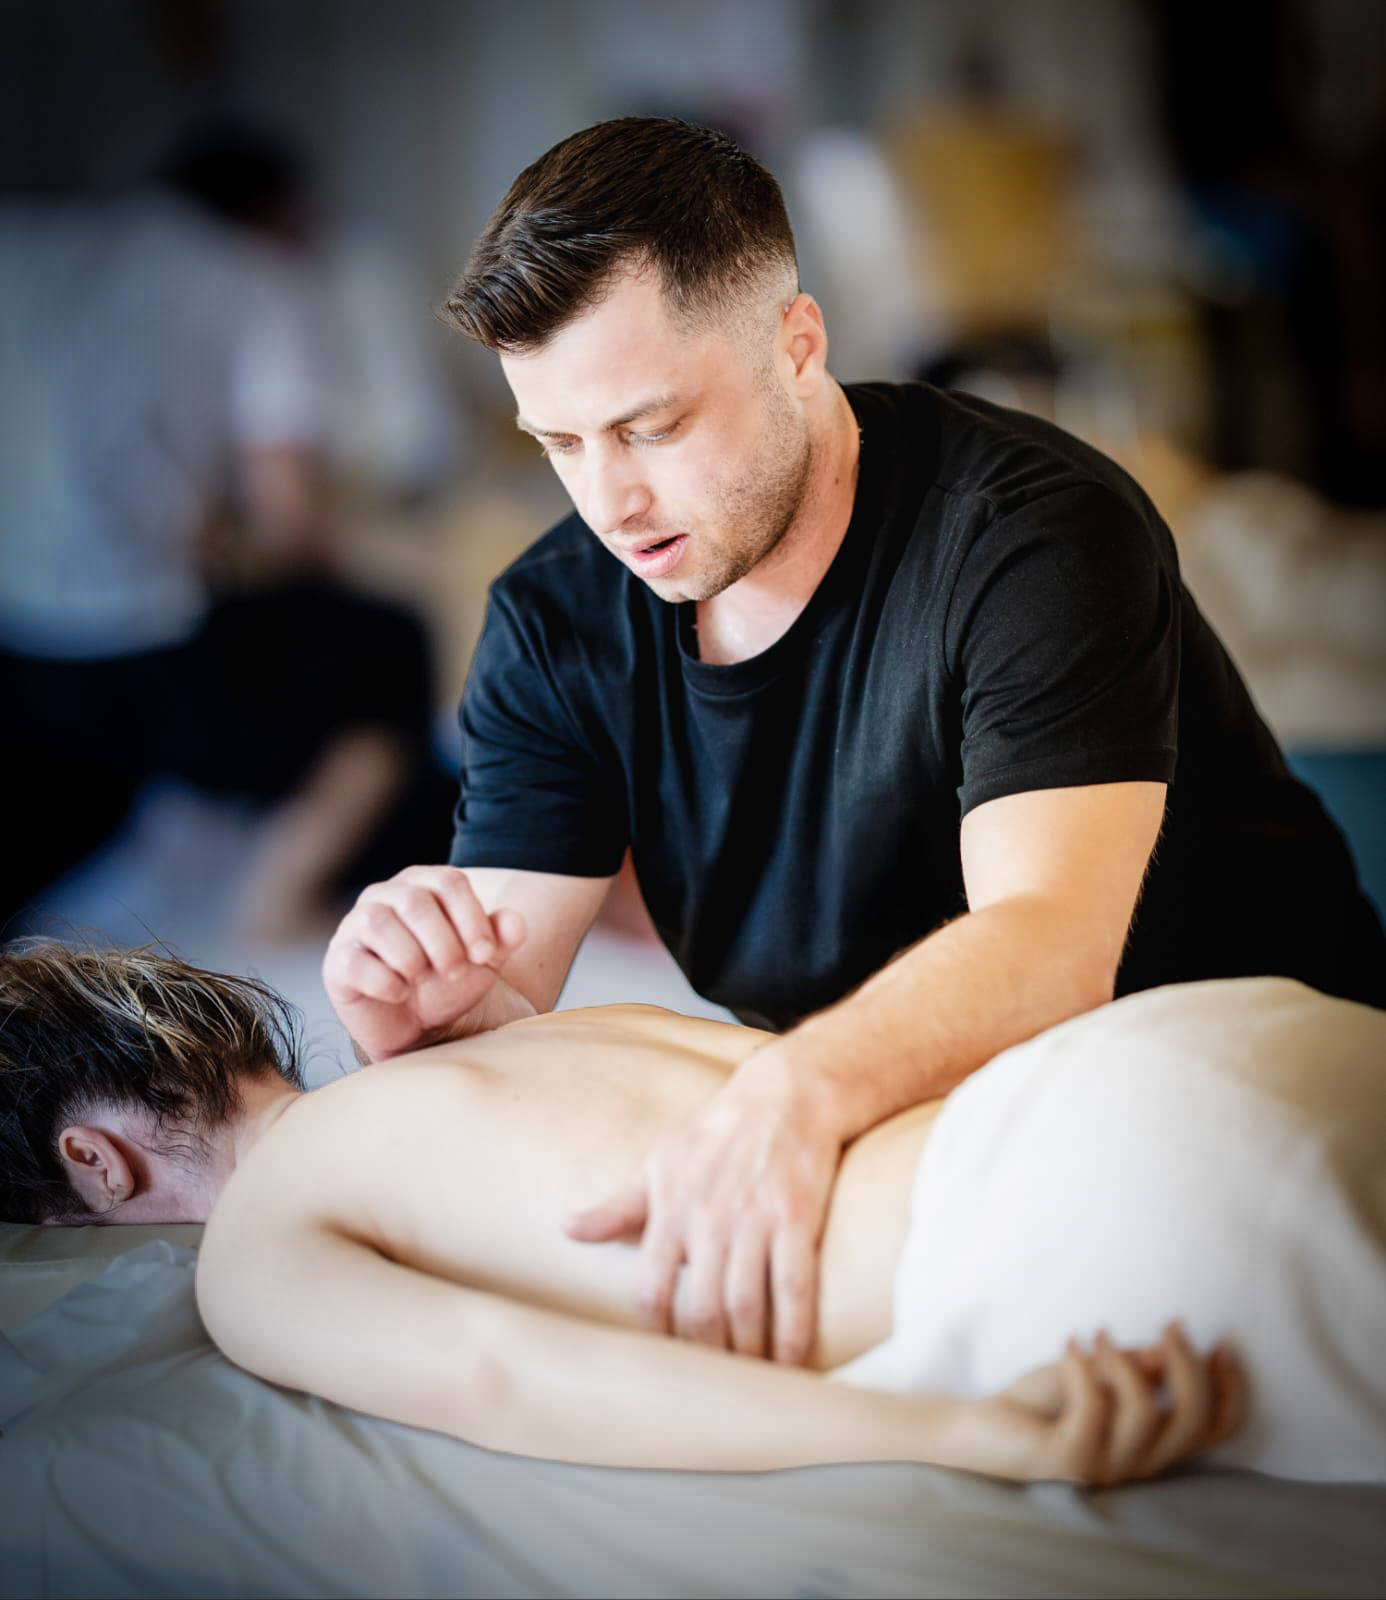
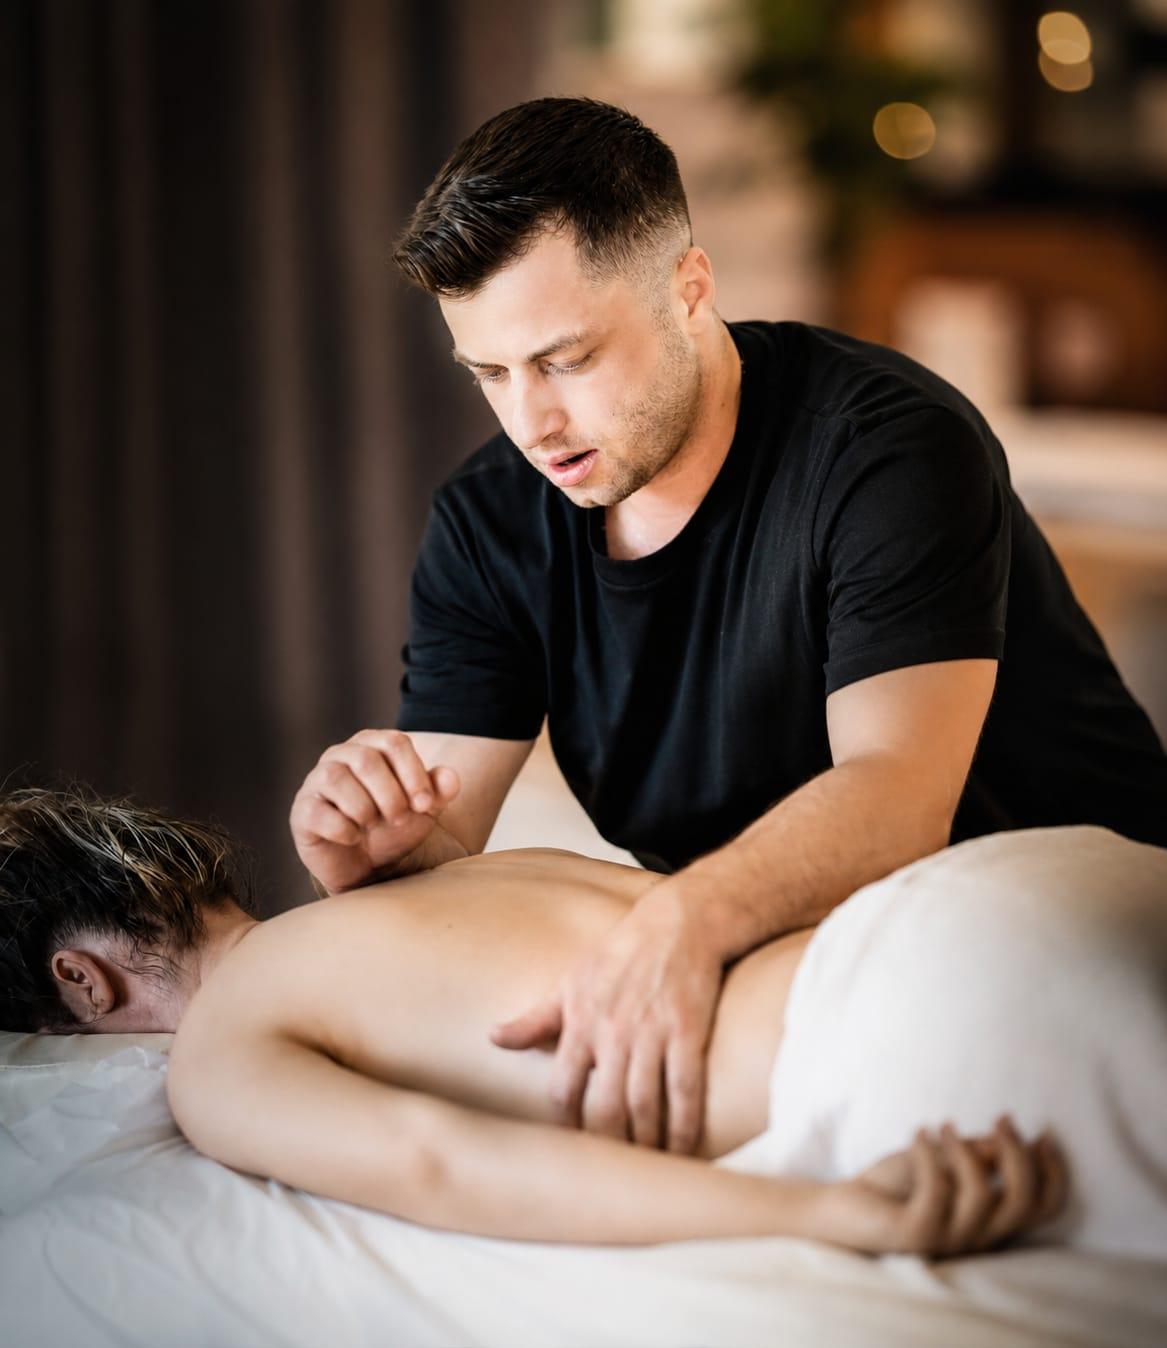
Swap in his new frame for the Reset Method
Same moment, better exposure: dark surround, warm bokeh behind him, his face
lit. The old frame was daylight against a bright room and needed a deeper
grade to sit with the candlelit cards; this one belongs to the palette
already, so it goes back on the shared treatment and the per-plate grade
override comes out with it.

diff --git a/src/lib/media.ts b/src/lib/media.ts
@@ -28,13 +28,6 @@ export interface Plate {
   alt: string;
   /** object-position, so each reuse lands on a different part of the frame. */
   focus: string;
-  /**
-   * Optional grade. Most frames were shot dark and take the shared treatment,
-   * but a daylight frame needs pulling down or it reads as a different site.
-   * Given as a bare CSS filter list; the card supplies the default.
-   */
-  grade?: string;
-  gradeHover?: string;
 }
 
 export const sessionPlate: Record<string, Plate> = {
@@ -42,11 +35,7 @@ export const sessionPlate: Record<string, Plate> = {
   "la-terapia": {
     src: resetSession,
     alt: "Andrei Sirbu working with both hands along a client's back during a session.",
-    focus: "48% 34%",
-    // Shot in daylight against a bright room, so it carries a deeper grade to
-    // sit level with the candlelit frames beside it.
-    grade: "grayscale(0.42) contrast(1.14) brightness(0.74) saturate(0.82)",
-    gradeHover: "grayscale(0.08) contrast(1.12) brightness(0.9) saturate(0.95)",
+    focus: "50% 38%",
   },
   // Ninety minutes, the deepest of the private work: a session already under
   // way in a warm, low-lit room.
